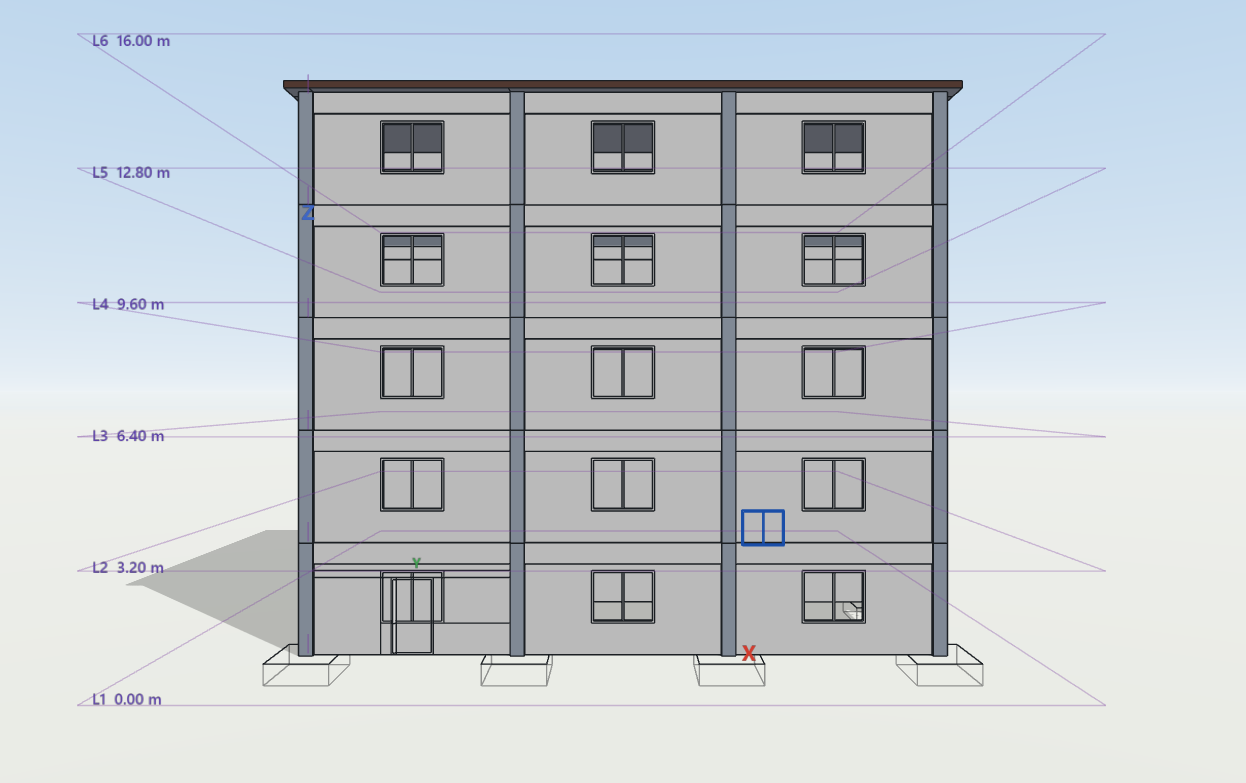
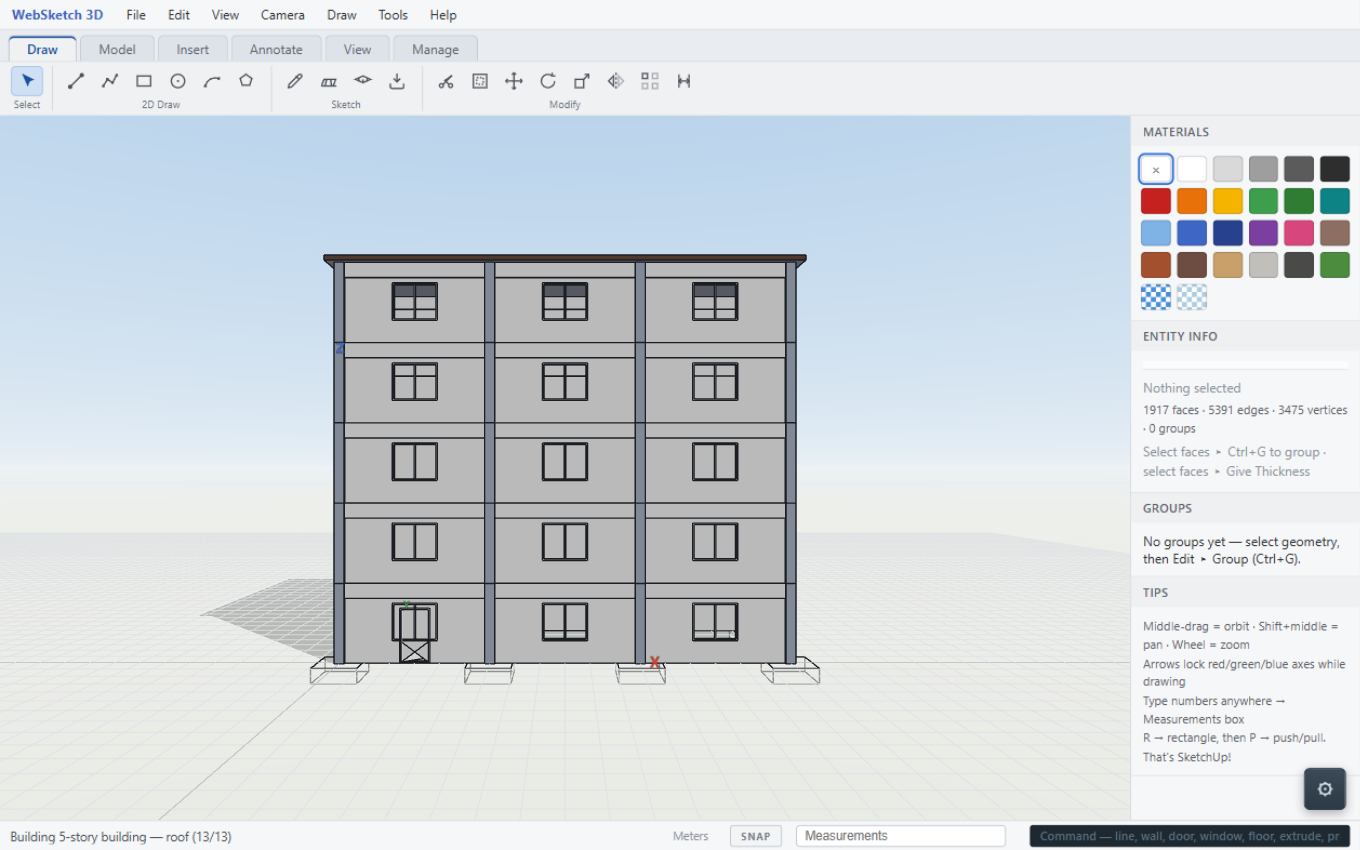
README: v0.7 architecture section (layering, ribbon, feature registry); refresh screenshots with the new ribbon UI

diff --git a/README.md b/README.md
@@ -232,11 +232,50 @@ footprint overlap across the room, so a small stub or cylinder facet inside
 the room can't hijack the measurement. A skinless selection (a lone face)
 moves just that face's plane.
 
+## Architecture (v0.7)
+
+Layered strictly downward — UI never touches raw model state:
+
+1. **UI shell** — `index.html` + `js/app.js` (menus, mode switching, the
+   ribbon, selection, inference, transactions, clipboard, autosave, the DB
+   mirror) and the palette modules `js/ui-cad.js` (options bars / dynamic
+   input), `ui-browser.js` (Element Browser), `ui-layers.js` (layers),
+   `ui-families.js` (column families), `ui-schedules.js` (schedules).
+2. **Ribbon** — `RIBBON_TABS` (app.js): tab-based tool layout
+   (Draw / Model / Insert / Annotate / View / Manage); each tool declares
+   which engine mode it lives in and picking it auto-switches modes. Tools
+   self-register through the **feature registry** (`js/engine/api.js`):
+   `Engine.features.register({ id, kind, tool, icon, commands, mode })` —
+   features in `js/features/*` (column, beam, foundation, roof, stairs,
+   handrail, grid placement, measure-area, demos…) load like plugins and
+   grow the ribbon, the toolbar, and the command bar automatically.
+3. **Tools** — `js/tools/` with a shared lifecycle contract (`base.js`):
+   `free.js` (direct modeling, incl. polyline chaining + dynamic input),
+   `bim.js` (parametric elements + Convert), `draw.js` (the shared
+   2D-primitive sketch engine), `assets.js`, `script.js`; `registry.js`
+   combines them into the flat id→class map.
+4. **Element layer** — `js/BimElement.js` (entity→Group rendering,
+   incremental dirty-signature rebuilds, catalog mapping),
+   `js/StructuralManager.js` (pure structural families + datum rules),
+   `js/edit-inplace.js` (isolation sandbox), `js/SnapSystem.js`
+   (inference candidates), `js/GridManager.js` / `GridLine.js` (datums),
+   `js/db.js` (IndexedDB relational store), `js/families.js` /
+   `families-loader.js` / `columnFamilies.js` (design catalog),
+   `js/script-elements.js` (AI-pasted parametric types),
+   `js/export-gltf.js`, `js/assets.js` + `BlenderKitBrowser.js`,
+   `js/autosaveWorker.js` (off-thread persistence).
+5. **Kernel & viewport** — `js/model.js` (the B-Rep solid modeler) and
+   `js/render.js` (Three.js viewport with on-demand rendering, per-face
+   triangulation cache, merged element Groups + edge batches, HUD osnap
+   glyphs).
+
 ## Files
 
 - `index.html` — UI shell (menus, mode tabs, toolbar, tray, status bar)
-- `css/style.css` — SketchUp-style light theme + the Precise Drawing palette
-- `js/lib/three.min.js` — Three.js r128 (local copy, offline-friendly)
+- `css/style.css` — light theme + ribbon, dialogs, palettes, osnap glyphs
+- `electron/main.js` — desktop wrapper: zero-dependency localhost static
+  server + BrowserWindow (localStorage/IndexedDB parity with the web build)
+- `js/lib/` — Three.js r128 + loaders (local copies, offline-friendly)
 - `js/geometry.js` — vector/plane math, offsets, triangulation helpers
 - `js/model.js` — the solid modeler: edges/faces/curves, auto-facing, face
   splitting and healing, push/pull with capping + collapse, serialization,
@@ -251,33 +290,28 @@ moves just that face's plane.
   `clientToCanvasPixels` / `worldToScreenPixels` (raw `ev.clientX/Y` never
   escapes past `Viewport.eventPt`)
 - `js/tools/base.js` — the Tool lifecycle contract (`activate deactivate
-  cleanup onDown onMove onUp onKey onVCB status`) + shared helpers
-- `js/tools/free.js` — `tools/free/*`: the 17 SketchUp-style direct-modeling
-  tools (namespace `FreeTools`)
-- `js/tools/bim.js` — `tools/bim/*`: Revit-style parametric tools (namespace
-  `BimTools`) — `WallTool` (baseline → thickness × height solid, driven by
-  the options bar: Base Level, Top Constraint / Unconnected Height,
-  Thickness, Location Line, Chain) and `FloorTool` (corners → slab on the
-  Base Level, VCB "w,h[,thickness]"). Both mutate the SAME B-Rep through the
-  transaction manager and stamp every face with BIM metadata
-- `js/tools/registry.js` — combines both namespaces into the flat tool map
+  cleanup onDown onMove onUp onKey onVCB dynSpec/dynApply/dynCommit status`)
+  + shared helpers
+- `js/tools/free.js` — the SketchUp-style direct-modeling tools, including
+  the polyline-chaining Line tool and the local-normal Extrude Curve tool
+  (namespace `FreeTools`)
+- `js/tools/bim.js` — Revit-style parametric tools (namespace `BimTools`),
+  including Convert Faces/Edge to Element (fixed named types)
+- `js/tools/registry.js` — combines the namespaces into the flat tool map
+- `js/engine/api.js` — the feature registry tools and features plug into
+- `js/features/` — feature plugins (structural elements, stairs, roofs,
+  grid placement, demos, …)
 - `js/db.js` — the persistent relational store: Categories / Families / Types /
   Elements tables over IndexedDB (in-memory adapter elsewhere, so the CRUD
-  layer — `createElement` / `updateElementGeometry` / `deleteElement` /
-  `queryElementsByCategory` — runs headless in `test/db.test.js`)
+  layer runs headless in `test/db.test.js`)
 - `js/BimElement.js` — the element architecture: one parametric entity = one
-  unified Three.js `Group` (a single selectable compound mesh), sub-element
-  face/area (m²) and edge/length (m) measurement queries, and the entity ➔
-  Category➔Family➔Type catalog mapping with dynamic type creation
-- `js/edit-inplace.js` — the in-place Edit Mode sandbox (isolation, finish's
-  validate + re-adopt + single undo step, cancel's snapshot restore)
-- `js/ui-browser.js` — the floating & dockable Element Browser palette
-- `js/app.js` — menus, mode switcher, toolbar/ribbon, materials tray,
-  inference engine, selection, the TransactionManager, clipboard, autosave,
-  the DB mirror (every commit upserts element B-Reps + quantities), and the
-  element inspector / Edit In Place wiring
-- `test/` — Node unit tests (`npm test` or `node test/run.js`; no DOM needed —
-  `test/harness.js` loads geometry.js + model.js into a `vm` sandbox)
+  unified Three.js `Group`, sub-element measurement queries, and the
+  entity ➔ Category➔Family➔Type catalog mapping with dynamic type creation
+- `js/edit-inplace.js` — the in-place Edit Mode sandbox
+- `js/StructuralManager.js` — pure structural families + datum/takeoff rules
+- `js/SnapSystem.js` — inference candidates (endpoints, midpoints, centers)
+- `test/` — Node unit tests (`npm test`; no DOM needed — the harness loads
+  geometry.js + model.js into a `vm` sandbox)
 
 ## BIM hierarchy: database, elements, Edit In Place
 
